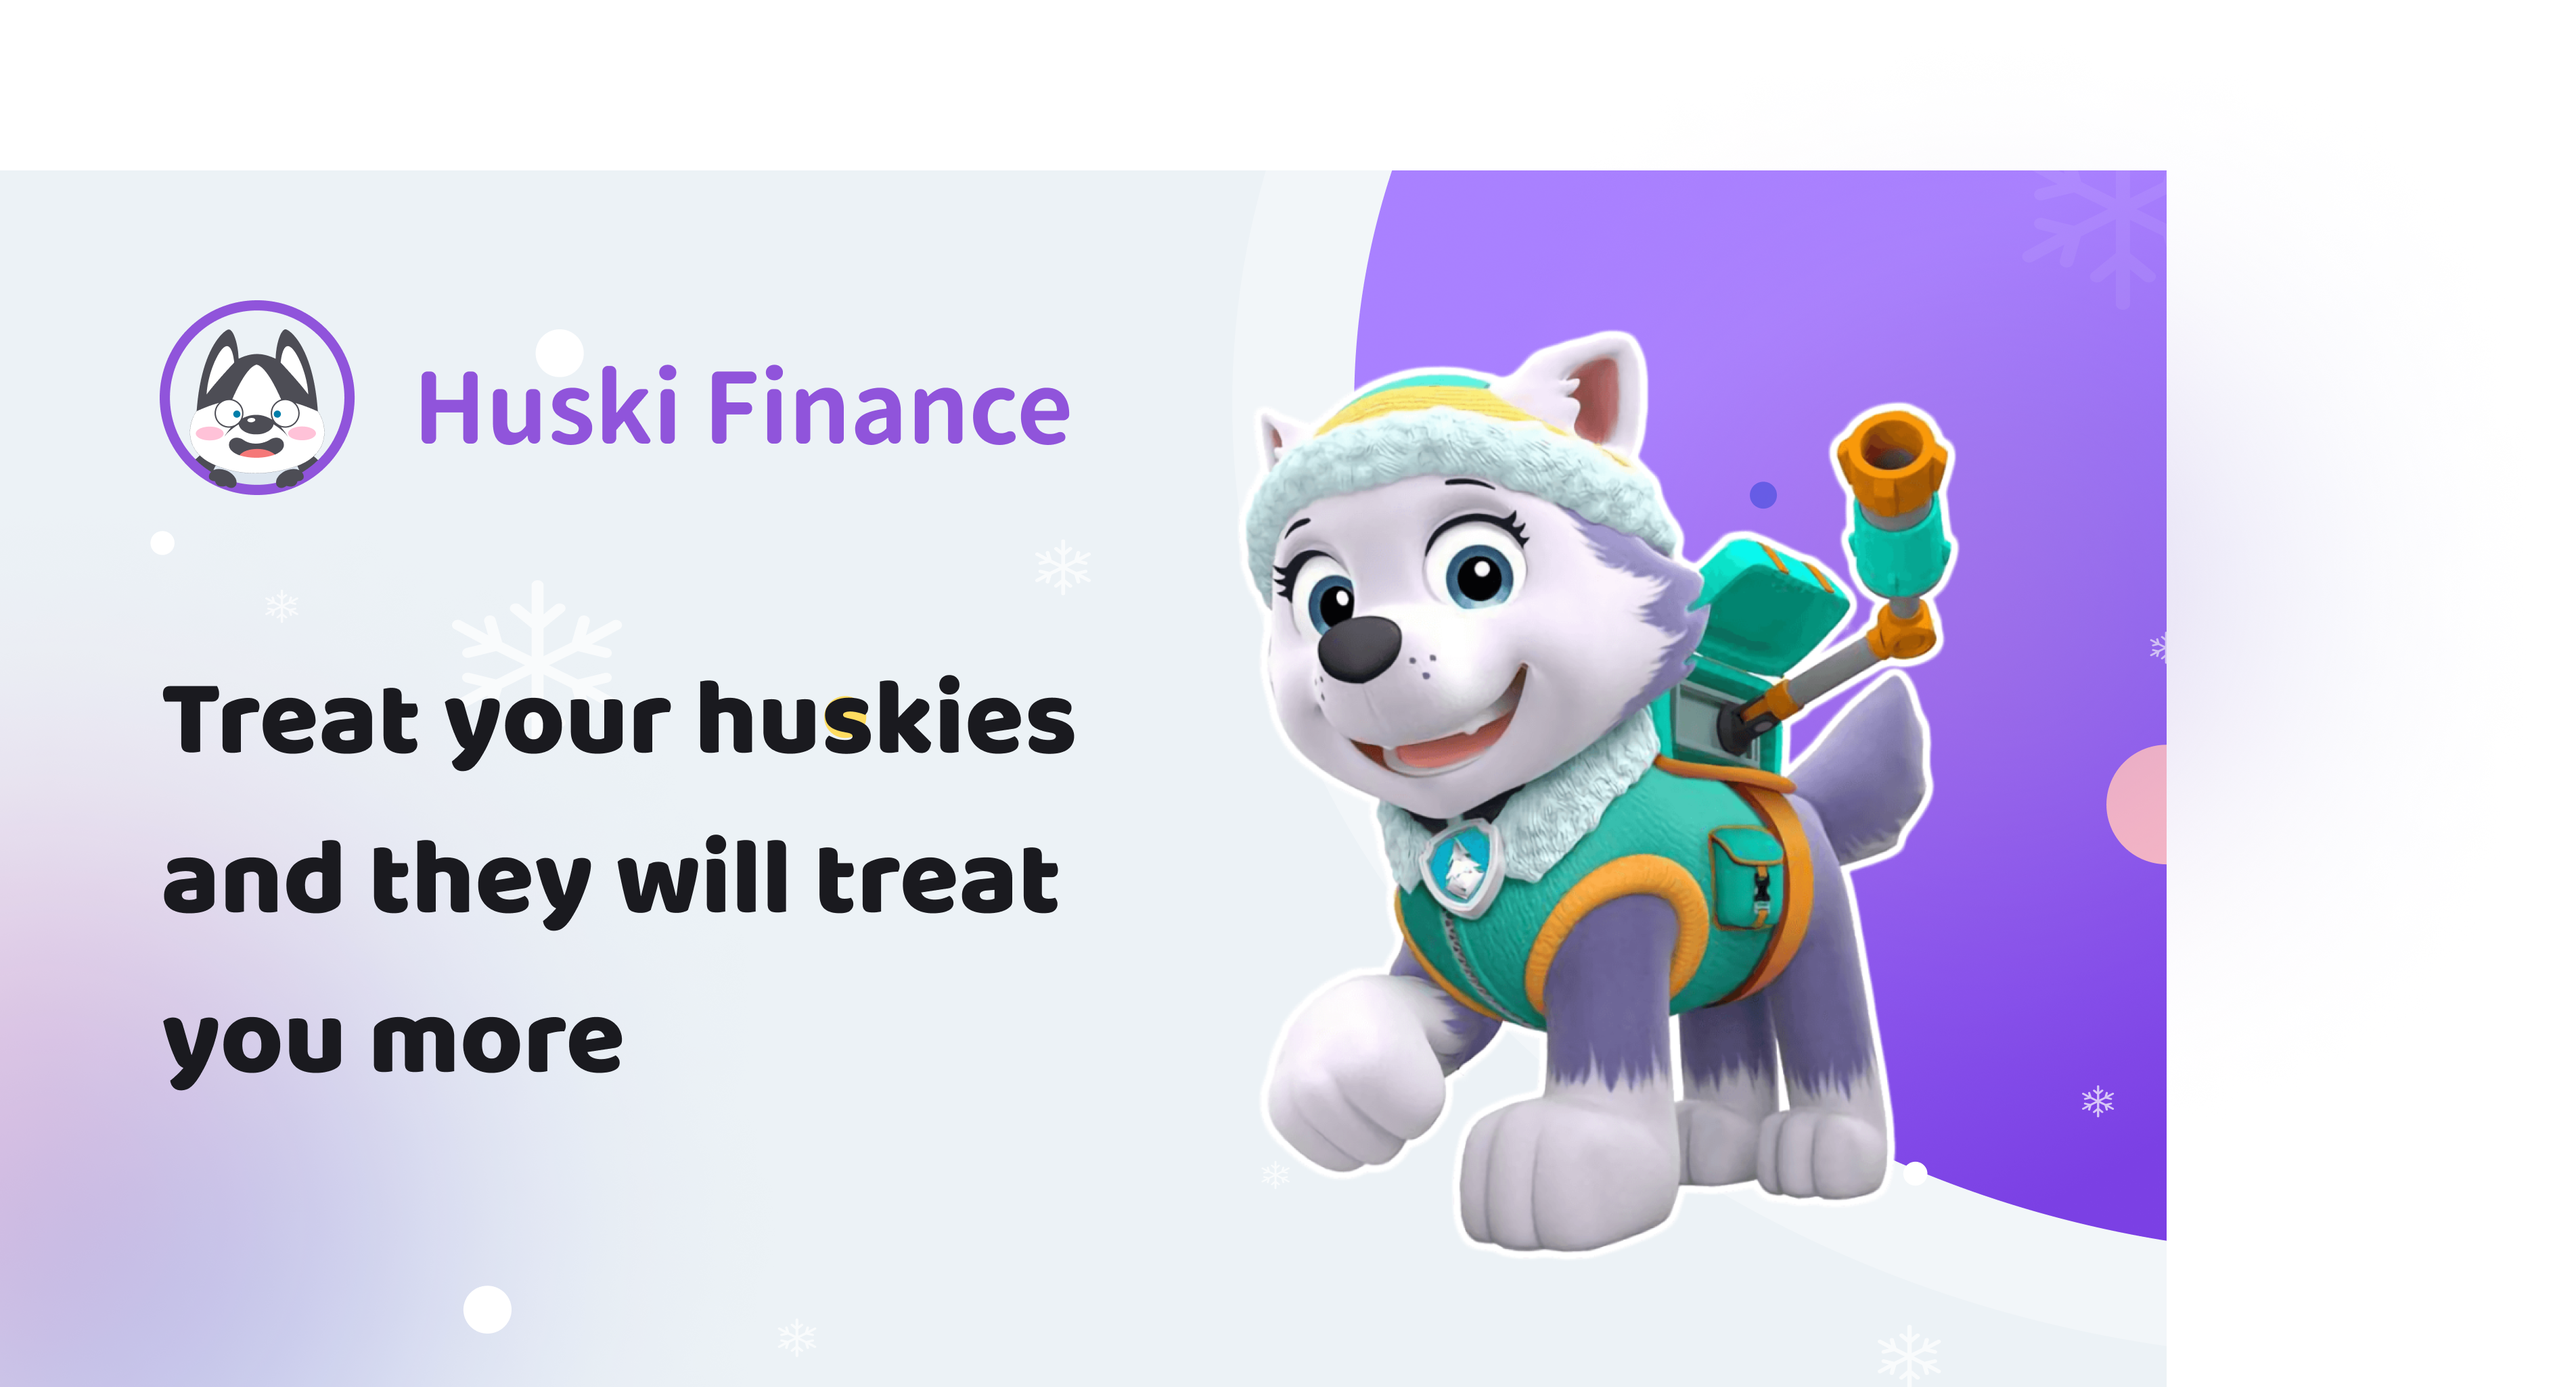
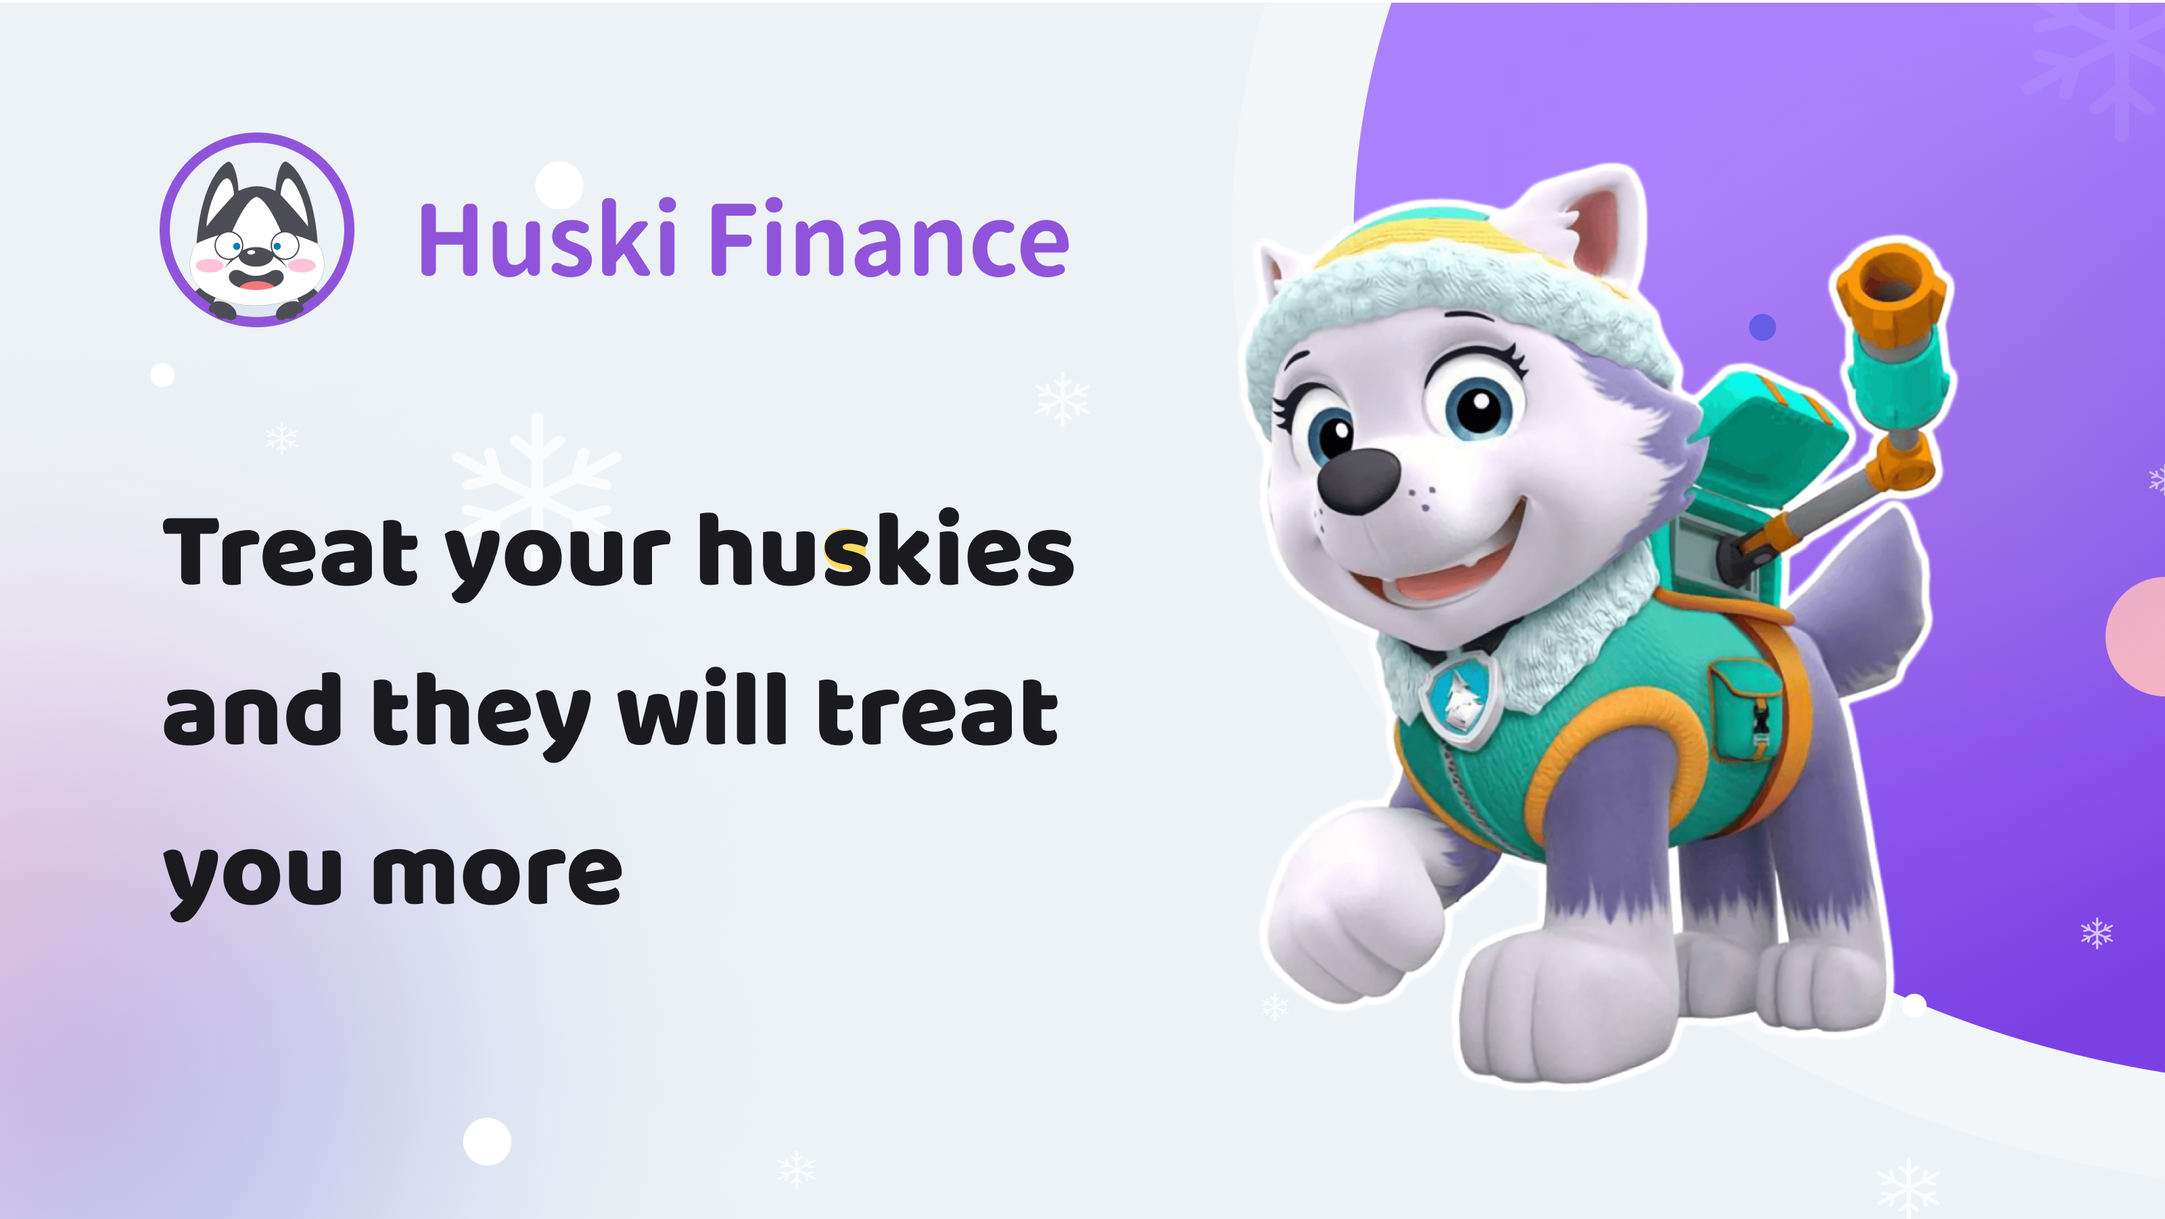
fix webpage preview hero image incorrect size + add opengraph prefix

diff --git a/public/index.html b/public/index.html
@@ -1,5 +1,5 @@
 <!DOCTYPE html>
-<html lang="en">
+<html lang="en" prefix="og: http://ogp.me/ns#">
 
 <head>
   <meta charset="utf-8" />
@@ -21,7 +21,7 @@
     content="Huski Finance is a community-based leveraged yield farming and liquidity providing product in DeFi and the first product by Huski Finance Lab. Yield farmers can leverage their positions by borrowing additional with from lenders." />
   <meta name="viewport" content="width=device-width, initial-scale=1, maximum-scale=5, minimum-scale=1" />
   <meta name="theme-color" content="#1FC7D4" />
-  <meta name="twitter:image" content="https://test.huski.finance/images/hero.png" />
+  <meta name="twitter:image" content="%PUBLIC_URL%/images/hero.png" />
   <meta name="twitter:description"
     content="Huski Finance is a community-based leveraged yield farming and liquidity providing product in DeFi and the first product by Huski Finance Lab. Yield farmers can leverage their positions by borrowing additional with from lenders." />
   <meta name="twitter:card" content="summary_large_image" />
